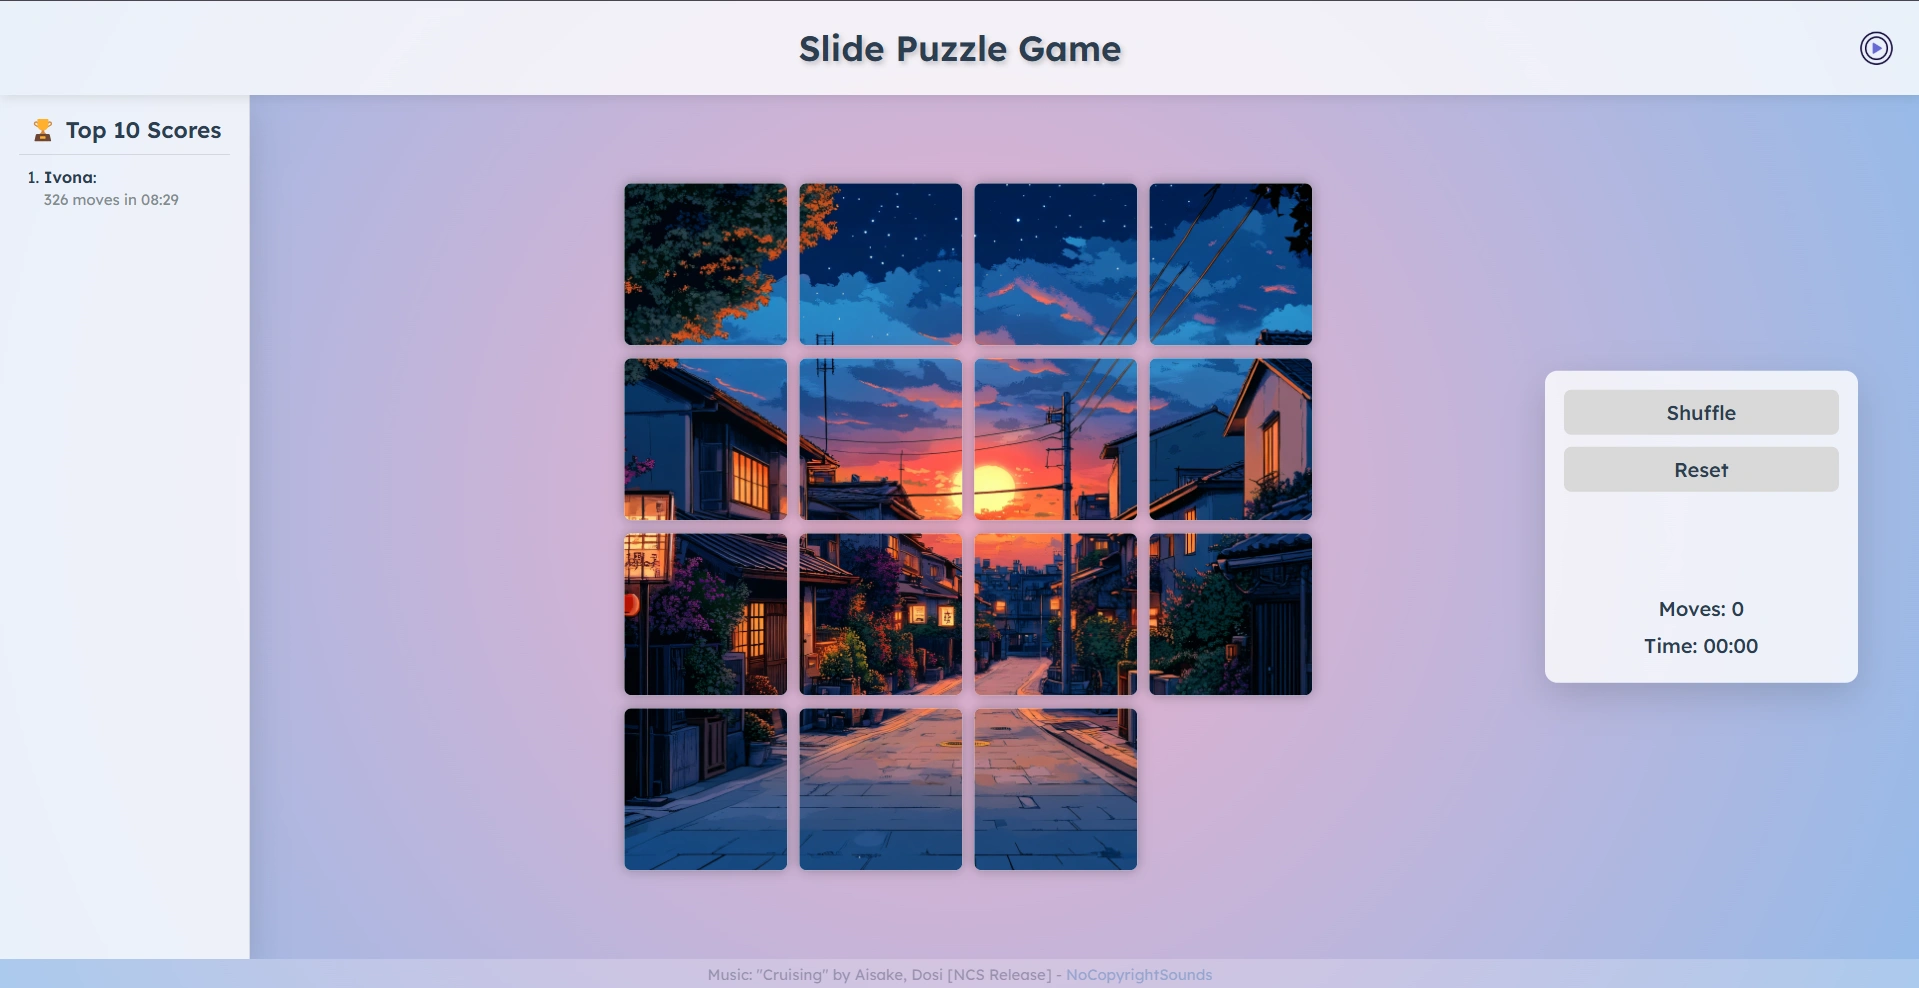
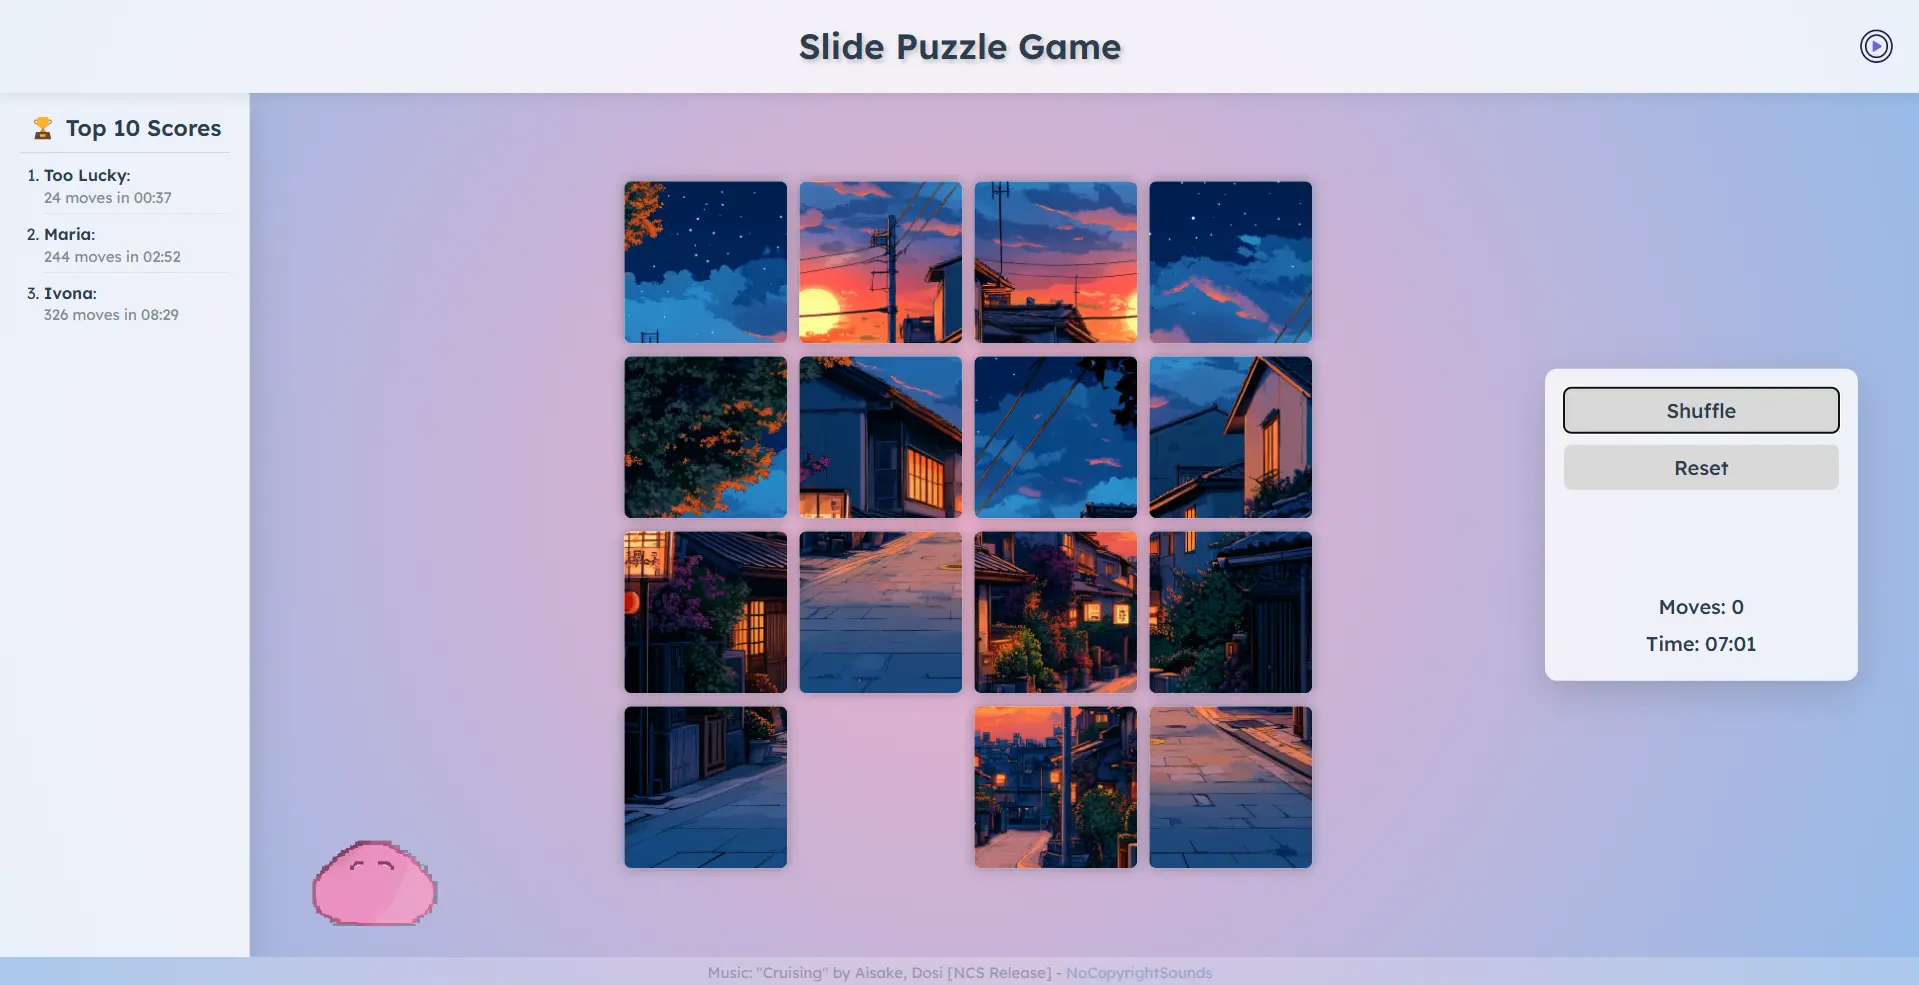
added a small dango animation to the website

diff --git a/styles.css b/styles.css
@@ -376,3 +376,48 @@ h1 {
 .modal button:hover {
   background-color: #2980b9;
 }
+
+/* Dango Animation */
+#dango-animation {
+  position: absolute;
+  width: 160px;
+  height: 80px;
+  left: 20px;
+  bottom: 20px;
+  z-index: 10;
+  background-image: url("img/dango.png");
+  background-size: 160px 160px; /* Width x height of both frames stacked vertically */
+  animation: dangoAnimate 2s steps(2) infinite;
+}
+
+@keyframes dangoAnimate {
+  from {
+    background-position: 0 0;
+  }
+  to {
+    background-position: 0 -163px;
+  }
+}
+
+#dango-animation::after {
+  content: "Hi there!";
+  position: absolute;
+  background-color: #4c5157;
+  color: white;
+  padding: 5px 10px;
+  border-radius: 4px;
+  font-size: 14px;
+  top: -50px;
+  left: 50%;
+  transform: translateX(-50%);
+  white-space: nowrap;
+  opacity: 0;
+  visibility: hidden;
+  transition: opacity 0.3s, visibility 0.3s;
+  z-index: 100;
+}
+
+#dango-animation:hover::after {
+  opacity: 1;
+  visibility: visible;
+}

diff --git a/index.html b/index.html
@@ -47,6 +47,7 @@
       </div>
 
       <div id="game-container">
+        <div id="dango-animation"></div>
         <div id="game-board">
           <div class="tile" data-row="0" data-col="0">
             <img src="img/image_part_001.webp" alt="1" />

diff --git a/README.md b/README.md
@@ -37,6 +37,10 @@ An interactive 4x4 sliding puzzle game implemented with vanilla JavaScript, CSS 
 
 ![Sliding Puzzle Game Demo Video](videos/showcase.gif)
 
+#### Added a small Dango animation
+
+![Sliding Puzzle Game Dango Animation](videos/dango.gif)
+
 ## 🛠 Technical Implementation
 
 The game is built using:
